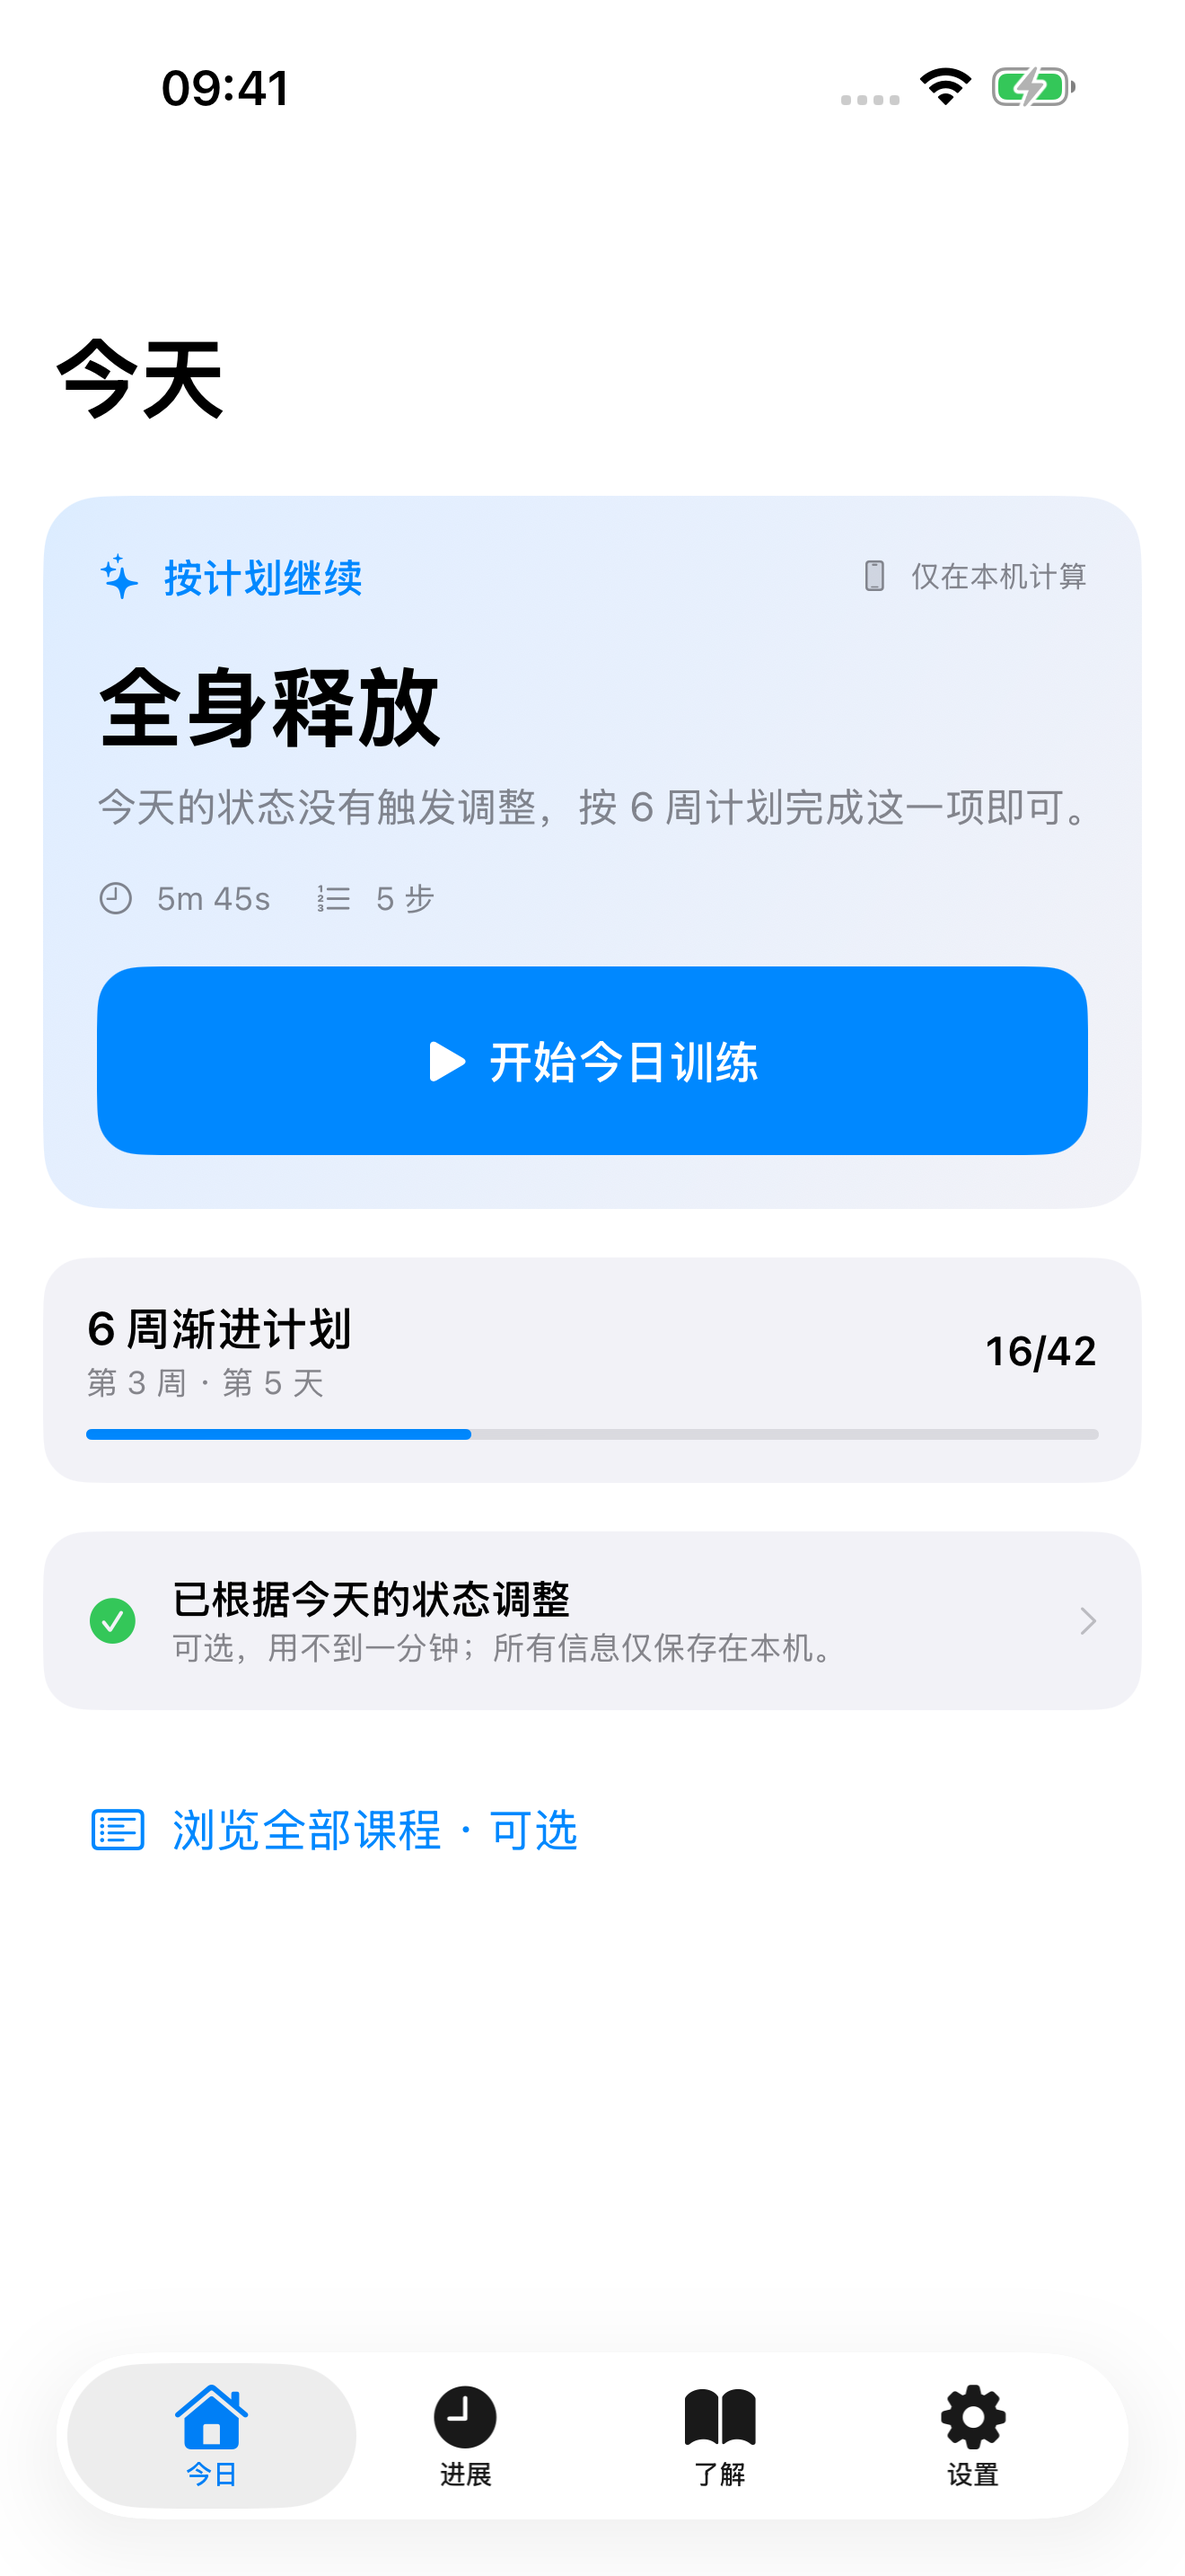
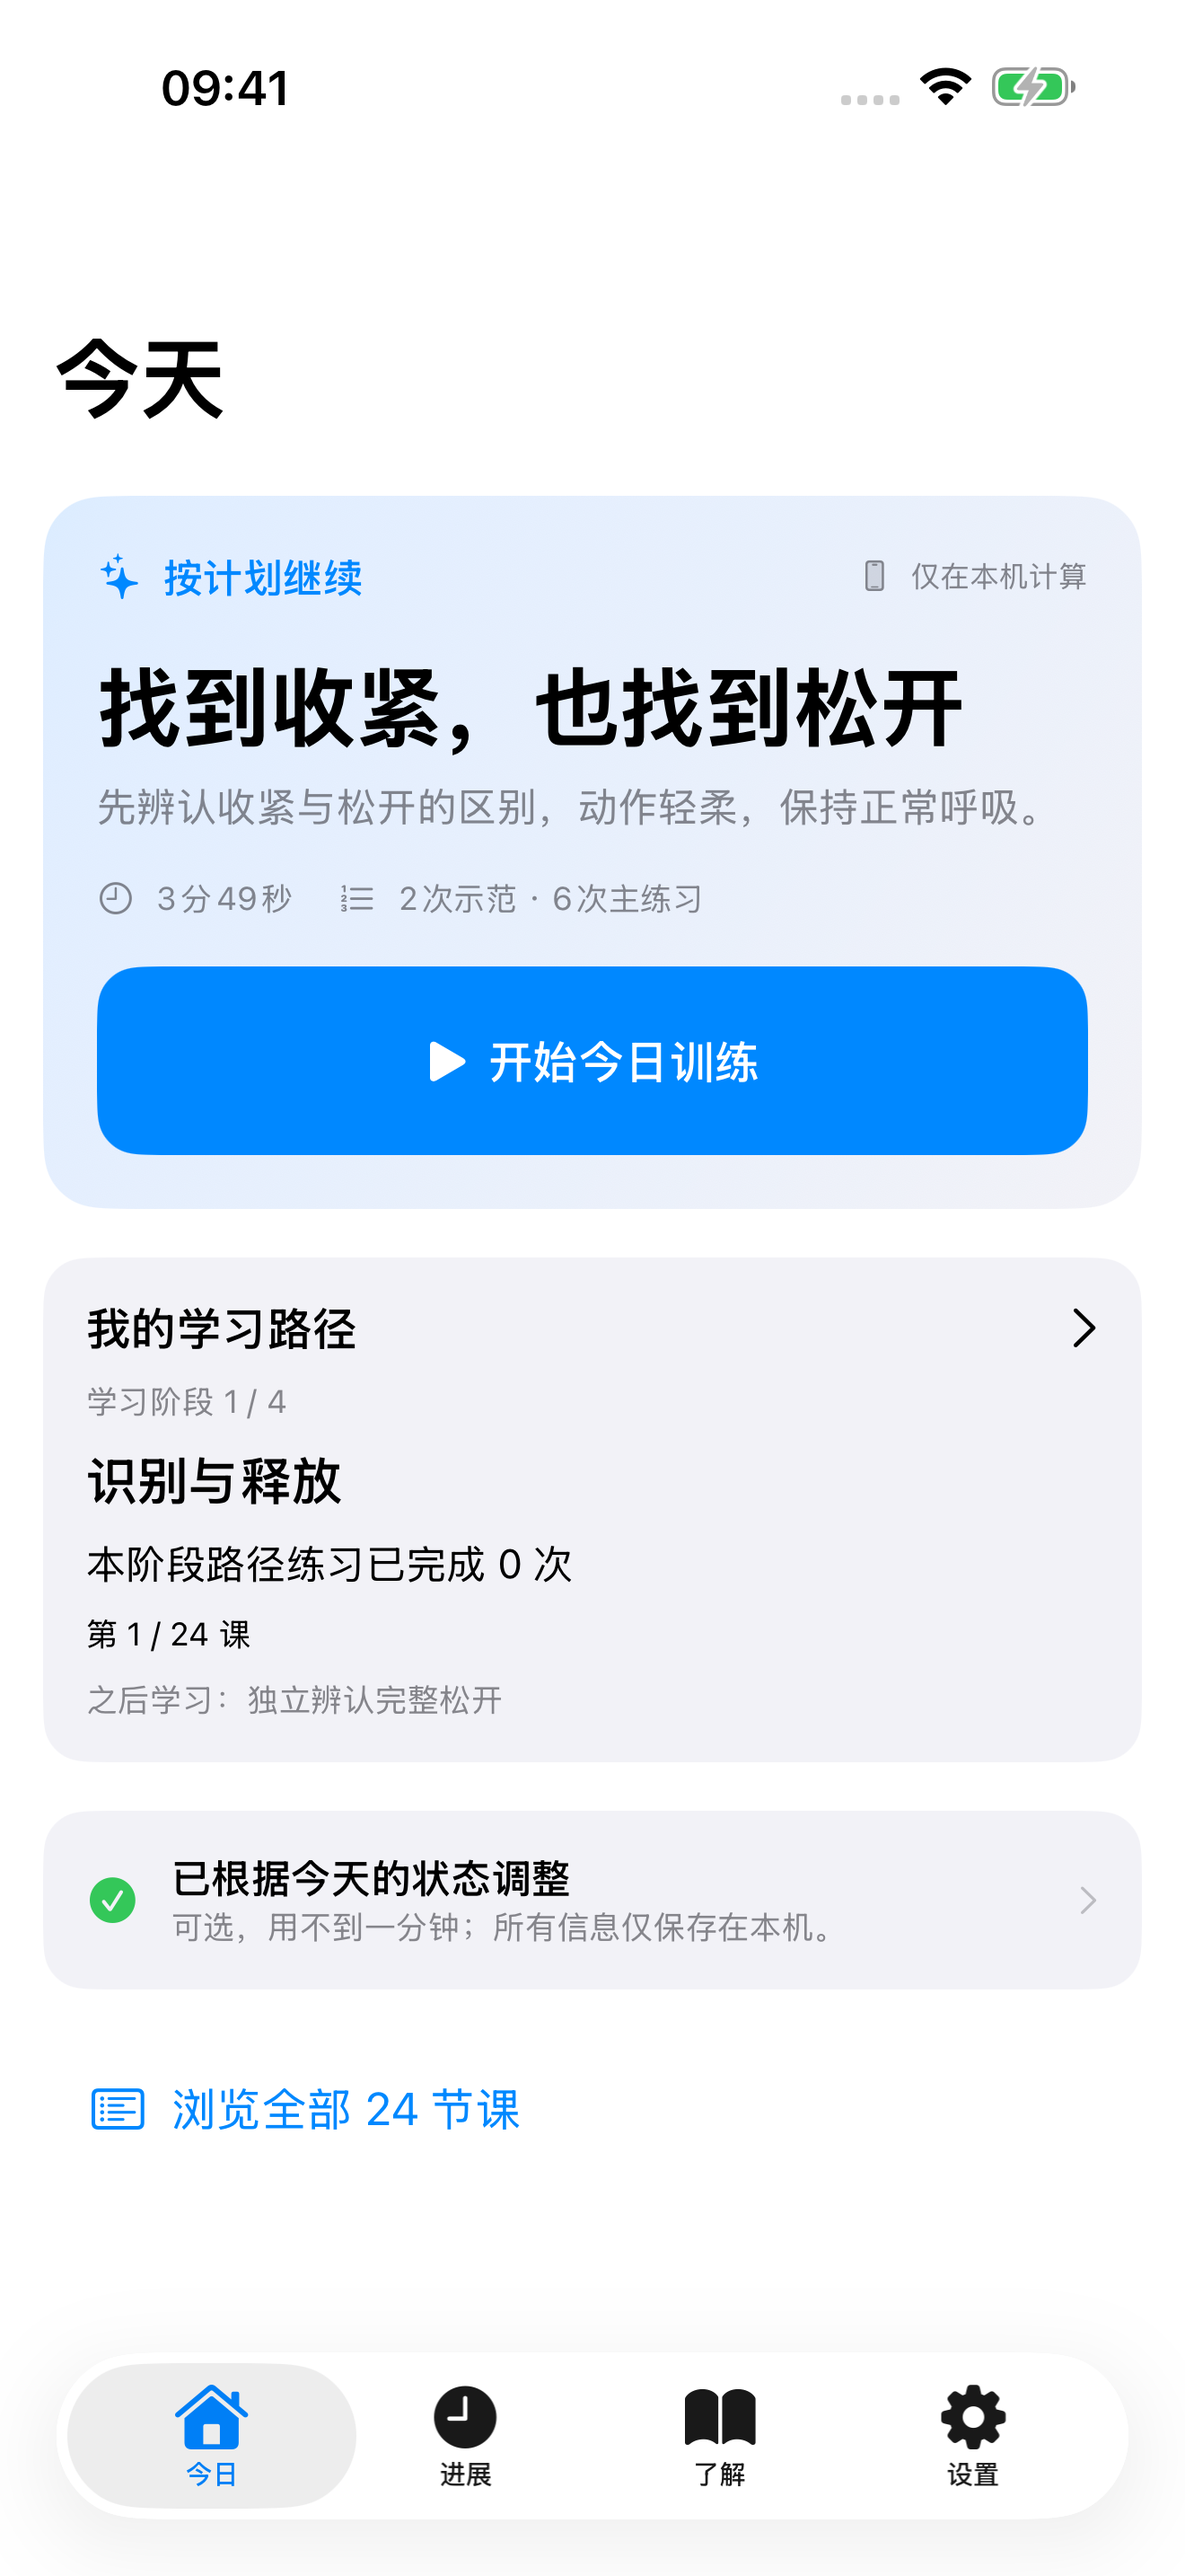
Prepare App Store 1.5.0 with current screenshots and search metadata

diff --git a/NextTime/NextTime/Views/ProgramListView.swift b/NextTime/NextTime/Views/ProgramListView.swift
@@ -7,6 +7,40 @@ struct ProgramListView: View {
     @State private var selection: TrainingSelection?
     @State private var showUpgrade = false
     @State private var showRest = false
+    @State private var search = ""
+    @State private var favoritesOnly = false
+    @AppStorage("catalog.favoriteLessonIDs") private var favoriteIDs = ""
+
+    private var favorites: Set<String> { Set(favoriteIDs.split(separator: ",").map(String.init)) }
+
+    private func isFavorite(_ lesson: TrainingProgram) -> Bool {
+        favorites.contains(lesson.id.uuidString)
+    }
+
+    private func toggleFavorite(_ lesson: TrainingProgram) {
+        var updated = favorites
+        if !updated.insert(lesson.id.uuidString).inserted {
+            updated.remove(lesson.id.uuidString)
+        }
+        favoriteIDs = updated.sorted().joined(separator: ",")
+    }
+
+    private var visibleStages: [PracticeStage] {
+        PracticeStage.allCases.filter { stage in
+            (selectedStage == nil || selectedStage == stage)
+                && !matchingLessons(in: stage).isEmpty
+        }
+    }
+
+    private func matchingLessons(in stage: PracticeStage) -> [(offset: Int, element: TrainingProgram)] {
+        let query = search.trimmingCharacters(in: .whitespacesAndNewlines)
+        return PracticeCurriculum.lessons(for: stage).enumerated().filter { _, lesson in
+            guard !favoritesOnly || isFavorite(lesson) else { return false }
+            return query.isEmpty || [lesson.localizedNameKey, lesson.localizedDescriptionKey].contains { key in
+                NSLocalizedString(key, comment: "").localizedStandardContains(query)
+            } || stage.title.localizedStandardContains(query)
+        }
+    }
 
     private struct TrainingSelection: Identifiable {
         let program: TrainingProgram
@@ -28,10 +62,15 @@ struct ProgramListView: View {
                         }
                     }
                     .accessibilityIdentifier("catalog.filter")
+                    Toggle(String(localized: "catalog.favoritesOnly"), isOn: $favoritesOnly)
+                        .accessibilityIdentifier("catalog.favorites-only")
                 }
-                ForEach(PracticeStage.allCases.filter { selectedStage == nil || $0 == selectedStage }) { stage in
+                if visibleStages.isEmpty {
+                    Text(String(localized: "catalog.empty")).foregroundStyle(.secondary)
+                }
+                ForEach(visibleStages) { stage in
                     Section(stage.title) {
-                        ForEach(Array(PracticeCurriculum.lessons(for: stage).enumerated()), id: \.element.id) { index, lesson in
+                        ForEach(matchingLessons(in: stage), id: \.element.id) { index, lesson in
                             let number = (stage.rawValue - 1) * PracticeCurriculum.lessonsPerStage + index + 1
                             NavigationLink {
                                 detail(lesson, number: number)
@@ -43,6 +82,7 @@ struct ProgramListView: View {
                     }
                 }
             }
+            .searchable(text: $search, placement: .navigationBarDrawer(displayMode: .always), prompt: String(localized: "catalog.search"))
             .navigationTitle(String(localized: "catalog.title"))
             .navigationBarTitleDisplayMode(.inline)
             .toolbar {
@@ -65,6 +105,11 @@ struct ProgramListView: View {
             Label(NSLocalizedString(lesson.localizedNameKey, comment: ""),
                   systemImage: proManager.isProgramLocked(lesson) ? "lock" : "figure.mind.and.body")
                 .font(.headline)
+            if isFavorite(lesson) {
+                Label(String(localized: "catalog.favorite"), systemImage: "star.fill")
+                    .font(.caption)
+                    .foregroundStyle(.secondary)
+            }
             Text(String(localized: "lesson.position \(number)") + " · " + PracticeCurriculum.structure(for: lesson))
                 .font(.caption)
                 .foregroundStyle(.secondary)
@@ -80,18 +125,60 @@ struct ProgramListView: View {
                     .font(.subheadline)
                     .foregroundStyle(.secondary)
                 Button {
-                    start(lesson)
+                    toggleFavorite(lesson)
                 } label: {
-                    Text(String(localized: proManager.isProgramLocked(lesson) ? "catalog.unlock" : "catalog.start"))
-                        .frame(maxWidth: .infinity)
+                    Label(String(localized: isFavorite(lesson) ? "catalog.unfavorite" : "catalog.favorite"),
+                          systemImage: isFavorite(lesson) ? "star.fill" : "star")
                 }
-                .buttonStyle(.borderedProminent)
-                .accessibilityIdentifier("catalog.start")
+                .buttonStyle(.bordered)
+                .accessibilityIdentifier("catalog.favorite-toggle")
+                lessonStructure(lesson)
             }
             .padding()
         }
+        .safeAreaInset(edge: .bottom) {
+            Button {
+                start(lesson)
+            } label: {
+                Text(String(localized: proManager.isProgramLocked(lesson) ? "catalog.unlock" : "catalog.start"))
+                    .frame(maxWidth: .infinity)
+            }
+            .buttonStyle(.borderedProminent)
+            .accessibilityIdentifier("catalog.start")
+            .padding()
+            .background(.bar)
+        }
         .navigationTitle(String(localized: "catalog.details"))
         .navigationBarTitleDisplayMode(.inline)
+    }
+
+    private func lessonStructure(_ lesson: TrainingProgram) -> some View {
+        VStack(alignment: .leading, spacing: 10) {
+            Text(String(localized: "catalog.structure")).font(.headline)
+            if SpeechService.shared.recordedLesson(for: lesson) != nil {
+                Text(String(localized: "catalog.recordedStructure"))
+            } else {
+                let checks = lesson.guidedSteps.filter { $0.kind == .instruction && $0.duration == nil }.dropFirst()
+                ForEach(Array(lesson.sets.enumerated()), id: \.offset) { index, set in
+                    Text(String(localized: "catalog.set \(index + 1) \(set.repetitions) \(set.contractDuration) \(set.relaxDuration)"))
+                        .font(.subheadline.weight(.semibold))
+                    if let check = checks.dropFirst(index).first, index + 1 < lesson.sets.count {
+                        Text(NSLocalizedString(check.guidanceKey, comment: ""))
+                            .font(.subheadline)
+                            .foregroundStyle(.secondary)
+                    }
+                }
+                if let reflection = lesson.guidedSteps.last(where: { $0.kind == .reflection }) {
+                    Text(String(localized: "catalog.reflect")).font(.headline)
+                    Text(NSLocalizedString(reflection.guidanceKey, comment: ""))
+                        .font(.subheadline)
+                        .foregroundStyle(.secondary)
+                }
+            }
+        }
+        .frame(maxWidth: .infinity, alignment: .leading)
+        .padding(14)
+        .background(.quaternary, in: RoundedRectangle(cornerRadius: 12))
     }
 
     private func start(_ lesson: TrainingProgram) {
